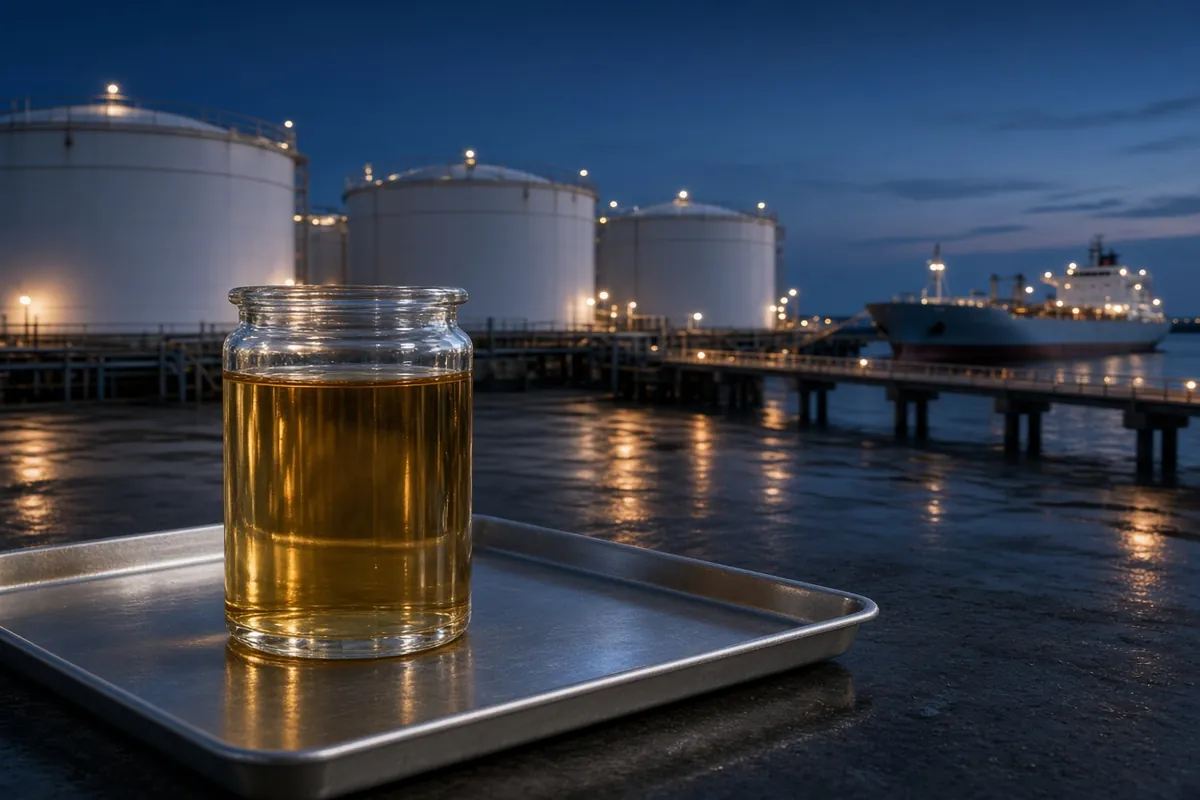
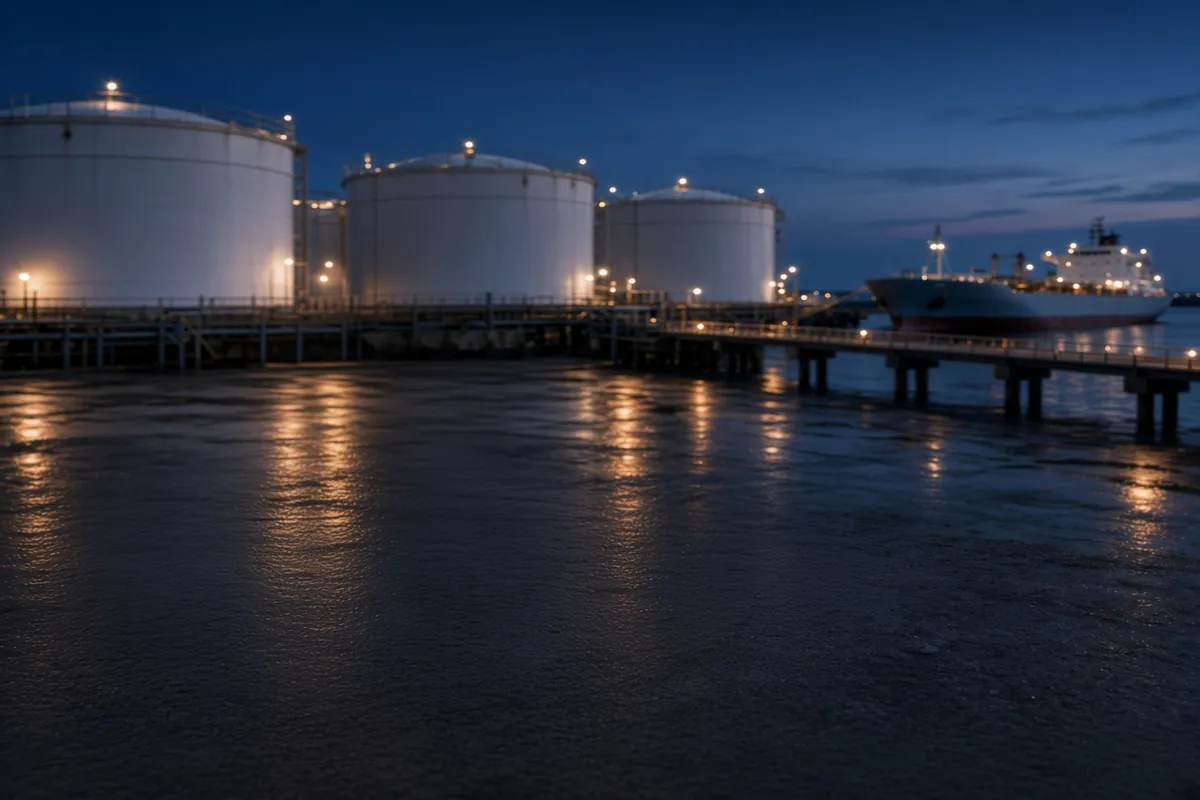
Tighten the EN590 and kaolin showroom pair.
Drop the sample jar from the diesel photo and put kaolin beside EN590 in the two-column resource grid.

diff --git a/index.html b/index.html
@@ -1301,7 +1301,7 @@
               <figure class="product-visual">
                 <picture>
                   <source type="image/webp" srcset="assets/opt/en590-diesel-400.webp 400w, assets/opt/en590-diesel-640.webp 640w, assets/opt/en590-diesel-900.webp 900w, assets/opt/en590-diesel-1200.webp 1200w" sizes="(min-width: 1024px) 46vw, 92vw">
-                  <img src="assets/en590-diesel.jpg" alt="EN590 초저유황 경유 시료와 탱크 터미널" width="1200" height="800" loading="lazy" data-i18n-alt="p.en590.alt">
+                  <img src="assets/en590-diesel.jpg" alt="EN590 경유 탱크 터미널" width="1200" height="800" loading="lazy" data-i18n-alt="p.en590.alt">
                 </picture>
                 <figcaption class="showroom-overlay">
                   <p class="showroom-kicker" data-i18n="hall.res.kicker">Resources Digital Showroom</p>
@@ -1356,10 +1356,10 @@
               </div>
             </article>
 
-            <article class="product-card product-wide product-showroom reveal" id="kaolin" data-tone="kaolin" data-gallery>
+            <article class="product-card product-showroom reveal" id="kaolin" data-tone="kaolin" data-gallery>
               <figure class="product-visual">
                 <picture>
-                  <source type="image/webp" srcset="assets/opt/kaolin-noodle-400.webp 400w, assets/opt/kaolin-noodle-640.webp 640w, assets/opt/kaolin-noodle-900.webp 900w, assets/opt/kaolin-noodle-1051.webp 1051w" sizes="(min-width: 1024px) 60vw, 92vw">
+                  <source type="image/webp" srcset="assets/opt/kaolin-noodle-400.webp 400w, assets/opt/kaolin-noodle-640.webp 640w, assets/opt/kaolin-noodle-900.webp 900w, assets/opt/kaolin-noodle-1051.webp 1051w" sizes="(min-width: 1024px) 46vw, 92vw">
                   <img data-gallery-main src="assets/kaolin-noodle.jpg" alt="카올린 누들 원료" width="1051" height="918" loading="lazy" data-i18n-alt="p.kaolin.alt.noodle">
                 </picture>
                 <figcaption class="showroom-overlay">
@@ -1428,32 +1428,11 @@
                     <dd>~38%</dd>
                   </div>
                   <div>
-                    <dt data-i18n="p.kaolin.spec.si.l">SiO₂</dt>
-                    <dd>~46%</dd>
-                  </div>
-                  <div>
-                    <dt data-i18n="p.kaolin.spec.fe.l">Fe₂O₃</dt>
-                    <dd>~0.6%</dd>
-                  </div>
-                  <div>
-                    <dt data-i18n="p.kaolin.spec.bright.l">백색도</dt>
-                    <dd>~81</dd>
-                  </div>
-                  <div>
-                    <dt data-i18n="p.kaolin.spec.moi.l">수분</dt>
-                    <dd>~19%</dd>
-                  </div>
-                  <div>
                     <dt data-i18n="p.kaolin.spec.port.l">선적항</dt>
                     <dd data-i18n="p.kaolin.spec.port.v">탄중바투</dd>
                   </div>
                 </dl>
                 <p class="spec-note" data-i18n="p.kaolin.note">대표 시료 기준입니다. 계약 물량은 선적 전 검사 결과에 따릅니다.</p>
-                <ul>
-                  <li data-i18n="p.kaolin.1">도자기 · 제지 · 페인트 원료</li>
-                  <li data-i18n="p.kaolin.2">누들 · 괴상 · 분체 공급</li>
-                  <li data-i18n="p.kaolin.3">벨리퉁 소싱 · 탄중바투 선적</li>
-                </ul>
                 <div class="product-cta">
                   <button class="btn btn-primary" type="button" data-item="카올린" data-intent="catalog">
                     <span data-i18n="p.catalog">카탈로그 요청</span>

diff --git a/js/main.js b/js/main.js
@@ -378,7 +378,7 @@ const i18n = {
     "p.en590.d": "유럽 규격 EN 590 초저유황 경유를 취급합니다. 황 함량 10 ppm, 세탄가·밀도·인화점을 계약 조건으로 맞추며, 한국 하역은 울산을 기준으로 문의합니다.",
     "p.en590.1": "EN 590 · ULSD",
     "p.en590.2": "수송 · 산업 · 발전",
-    "p.en590.alt": "EN590 초저유황 경유 시료와 탱크 터미널",
+    "p.en590.alt": "EN590 경유 탱크 터미널",
     "p.kaolin.t": "카올린",
     "p.kaolin.d": "인도네시아 벨리퉁에서 나오는 산업용 고령토입니다. 도자기·제지·페인트 원료로, 누들·괴상·분체를 백색도와 알루미나 함량 기준으로 맞춰 한국 수요처에 공급합니다.",
     "p.kaolin.showroom": "대표 규격",
@@ -1089,7 +1089,7 @@ const i18n = {
     "p.en590.d": "We handle EN 590 ultra-low-sulphur diesel. Sulphur at 10 ppm, cetane, density, and flash point become contract terms. Korea discharge is inquired against Ulsan.",
     "p.en590.1": "EN 590 · ULSD",
     "p.en590.2": "Transport · industry · power",
-    "p.en590.alt": "EN590 ultra-low-sulphur diesel sample and tank terminal",
+    "p.en590.alt": "EN590 diesel tank terminal",
     "p.kaolin.t": "Kaolin",
     "p.kaolin.d": "Industrial kaolin from Belitung, Indonesia. We match noodle, lump, and powder grades to brightness and alumina for ceramic, paper, and paint buyers in Korea and the region.",
     "p.kaolin.showroom": "Typical spec",
@@ -1809,7 +1809,7 @@ const i18n = {
     "p.en590.d": "Kami menangani solar sulfur sangat rendah EN 590. Sulfur 10 ppm, cetane, densitas, dan titik nyala menjadi syarat kontrak. Bongkar Korea ditanyakan dengan acuan Ulsan.",
     "p.en590.1": "EN 590 · ULSD",
     "p.en590.2": "Angkutan · industri · pembangkit",
-    "p.en590.alt": "Sampel solar EN590 sulfur sangat rendah dan terminal tangki",
+    "p.en590.alt": "Terminal tangki solar EN590",
     "p.kaolin.t": "Kaolin",
     "p.kaolin.d": "Kaolin industri dari Belitung, Indonesia. Kami menyesuaikan mutu noodle, bongkah, dan serbuk dengan kecerahan dan alumina untuk pembeli keramik, kertas, dan cat di Korea dan kawasan ini.",
     "p.kaolin.showroom": "Spek khas",
